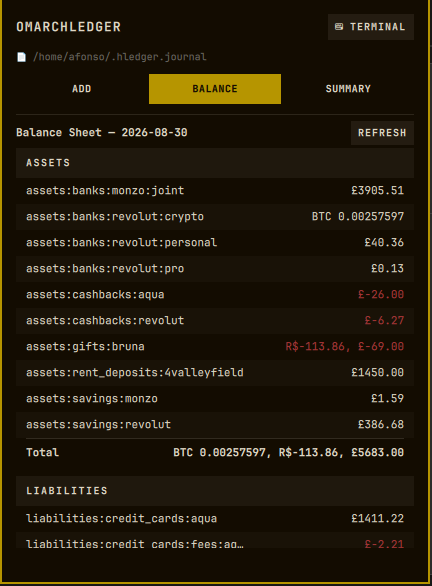
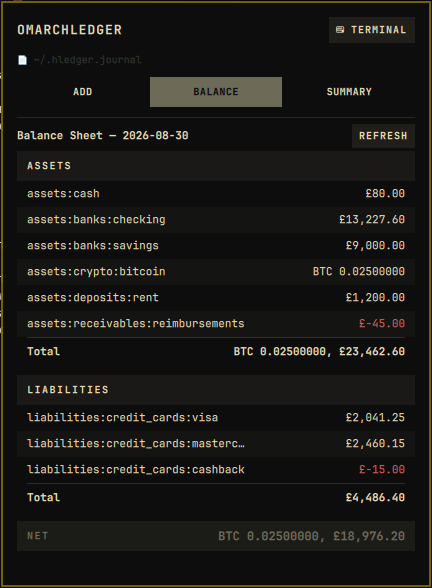
Rebuild README screenshots with anonymized sample data
- Replace real account names, amounts, and payees with generic dummy data
- Format journal path in Panel.qml to show ~ instead of user home directory
- Update hero and per-tab preview images for open-source release

diff --git a/Panel.qml b/Panel.qml
@@ -515,7 +515,7 @@ Panel {
         Text {
           width: parent.width
           visible: service.resolveError === ""
-          text: service.resolved ? ("📄 " + service.journalFile) : "Resolving journal…"
+          text: service.resolved ? ("📄 " + (service.journalFile.indexOf("/home/") === 0 ? service.journalFile.replace(/^\/home\/[^/]+/, "~") : service.journalFile)) : "Resolving journal…"
           color: root.mutedForeground
           font.family: root.contentFontFamily
           font.pixelSize: Style.font.caption
